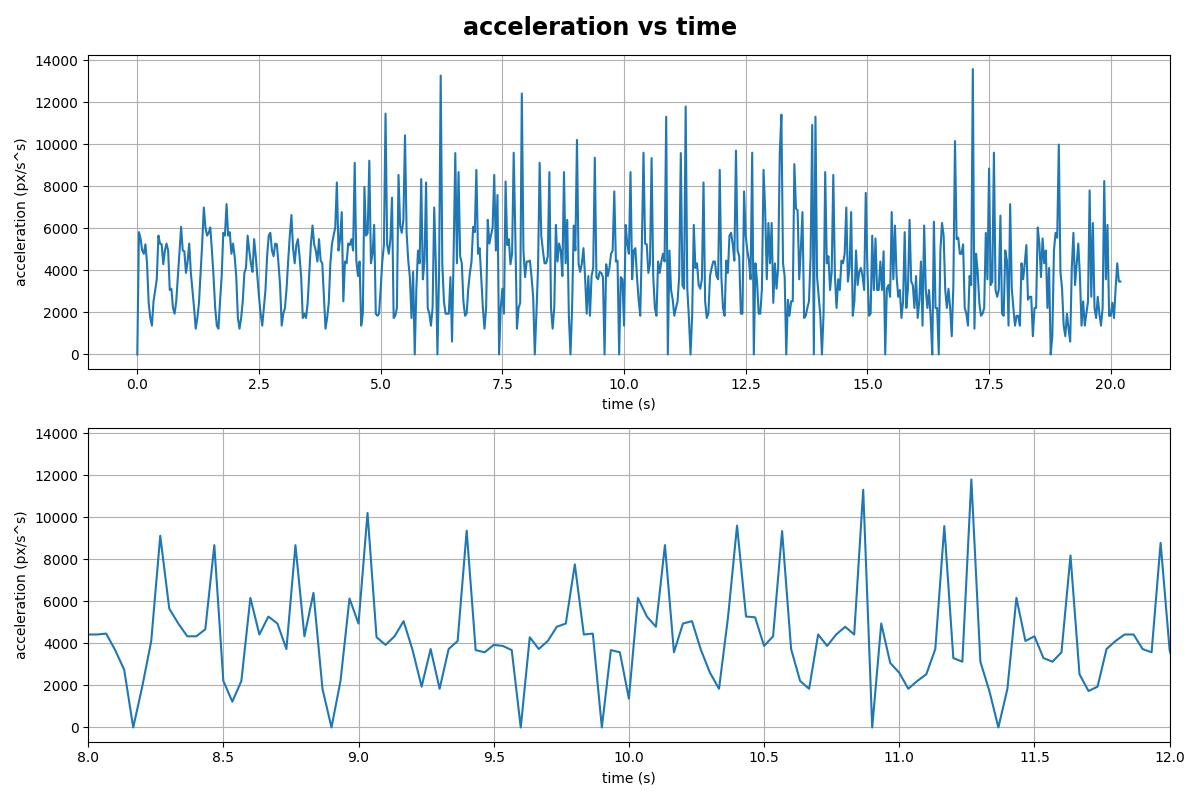
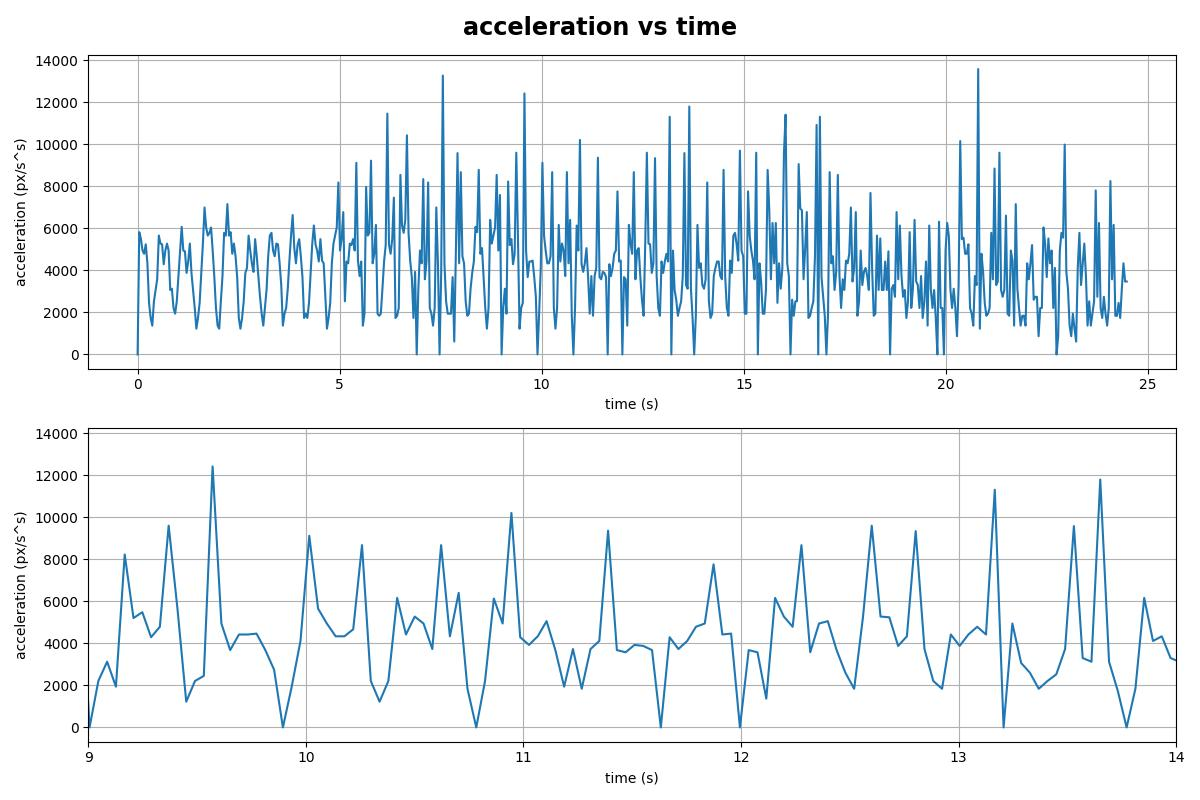
update fps data

diff --git a/src/data_function.py b/src/data_function.py
@@ -188,14 +188,14 @@ def plot_params_in_one_graph(obj, params=["xc", "vx"]):
 
 
 if __name__ == "__main__":
-    data_obj = build_data_obj()
+    data_obj = build_data_obj(fps=24.76)
     data_obj = add_vector_component_to_obj(data_obj, param="speed", add_key=["vx", "vy"])
 
     plot_centroid_data(data_obj)
 
     params=["xc", "yc", "vx", "vy", "speed", "acceleration", "theta"]
     plot_param_per_time(data_obj, params=params)
-    
+
 
     params = ["xc", "vx"]
     plot_params_in_one_graph(data_obj, params=params)
